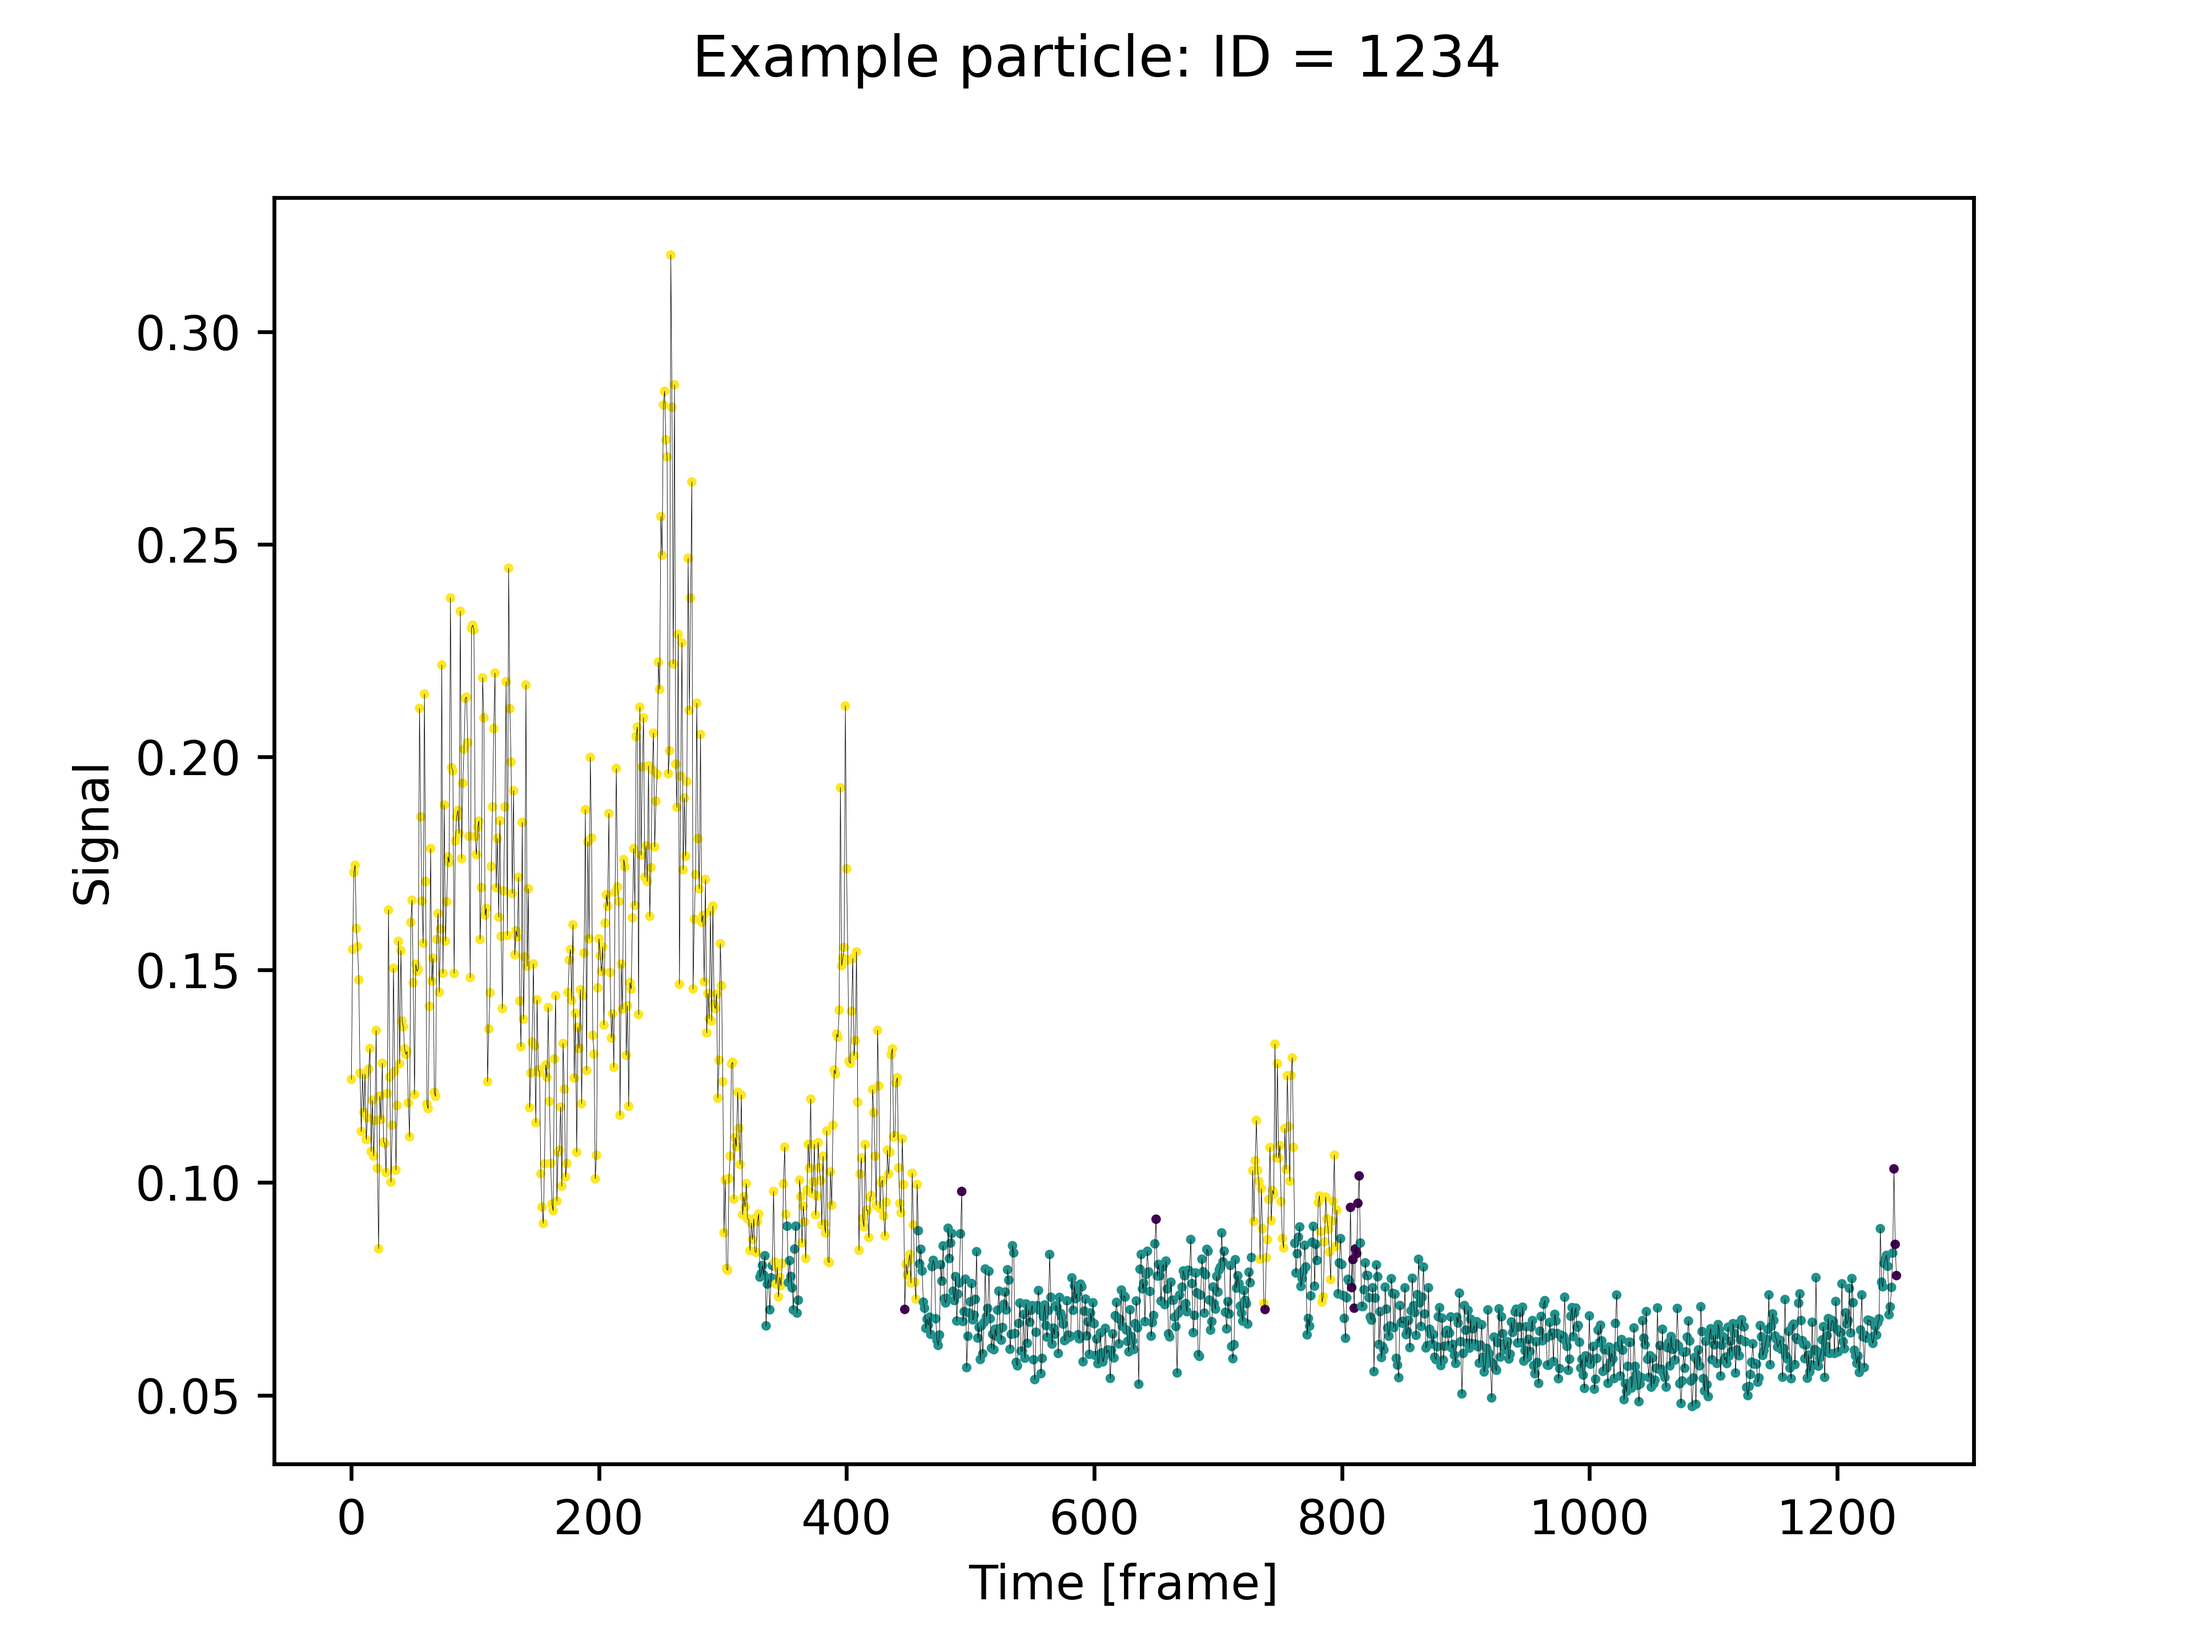
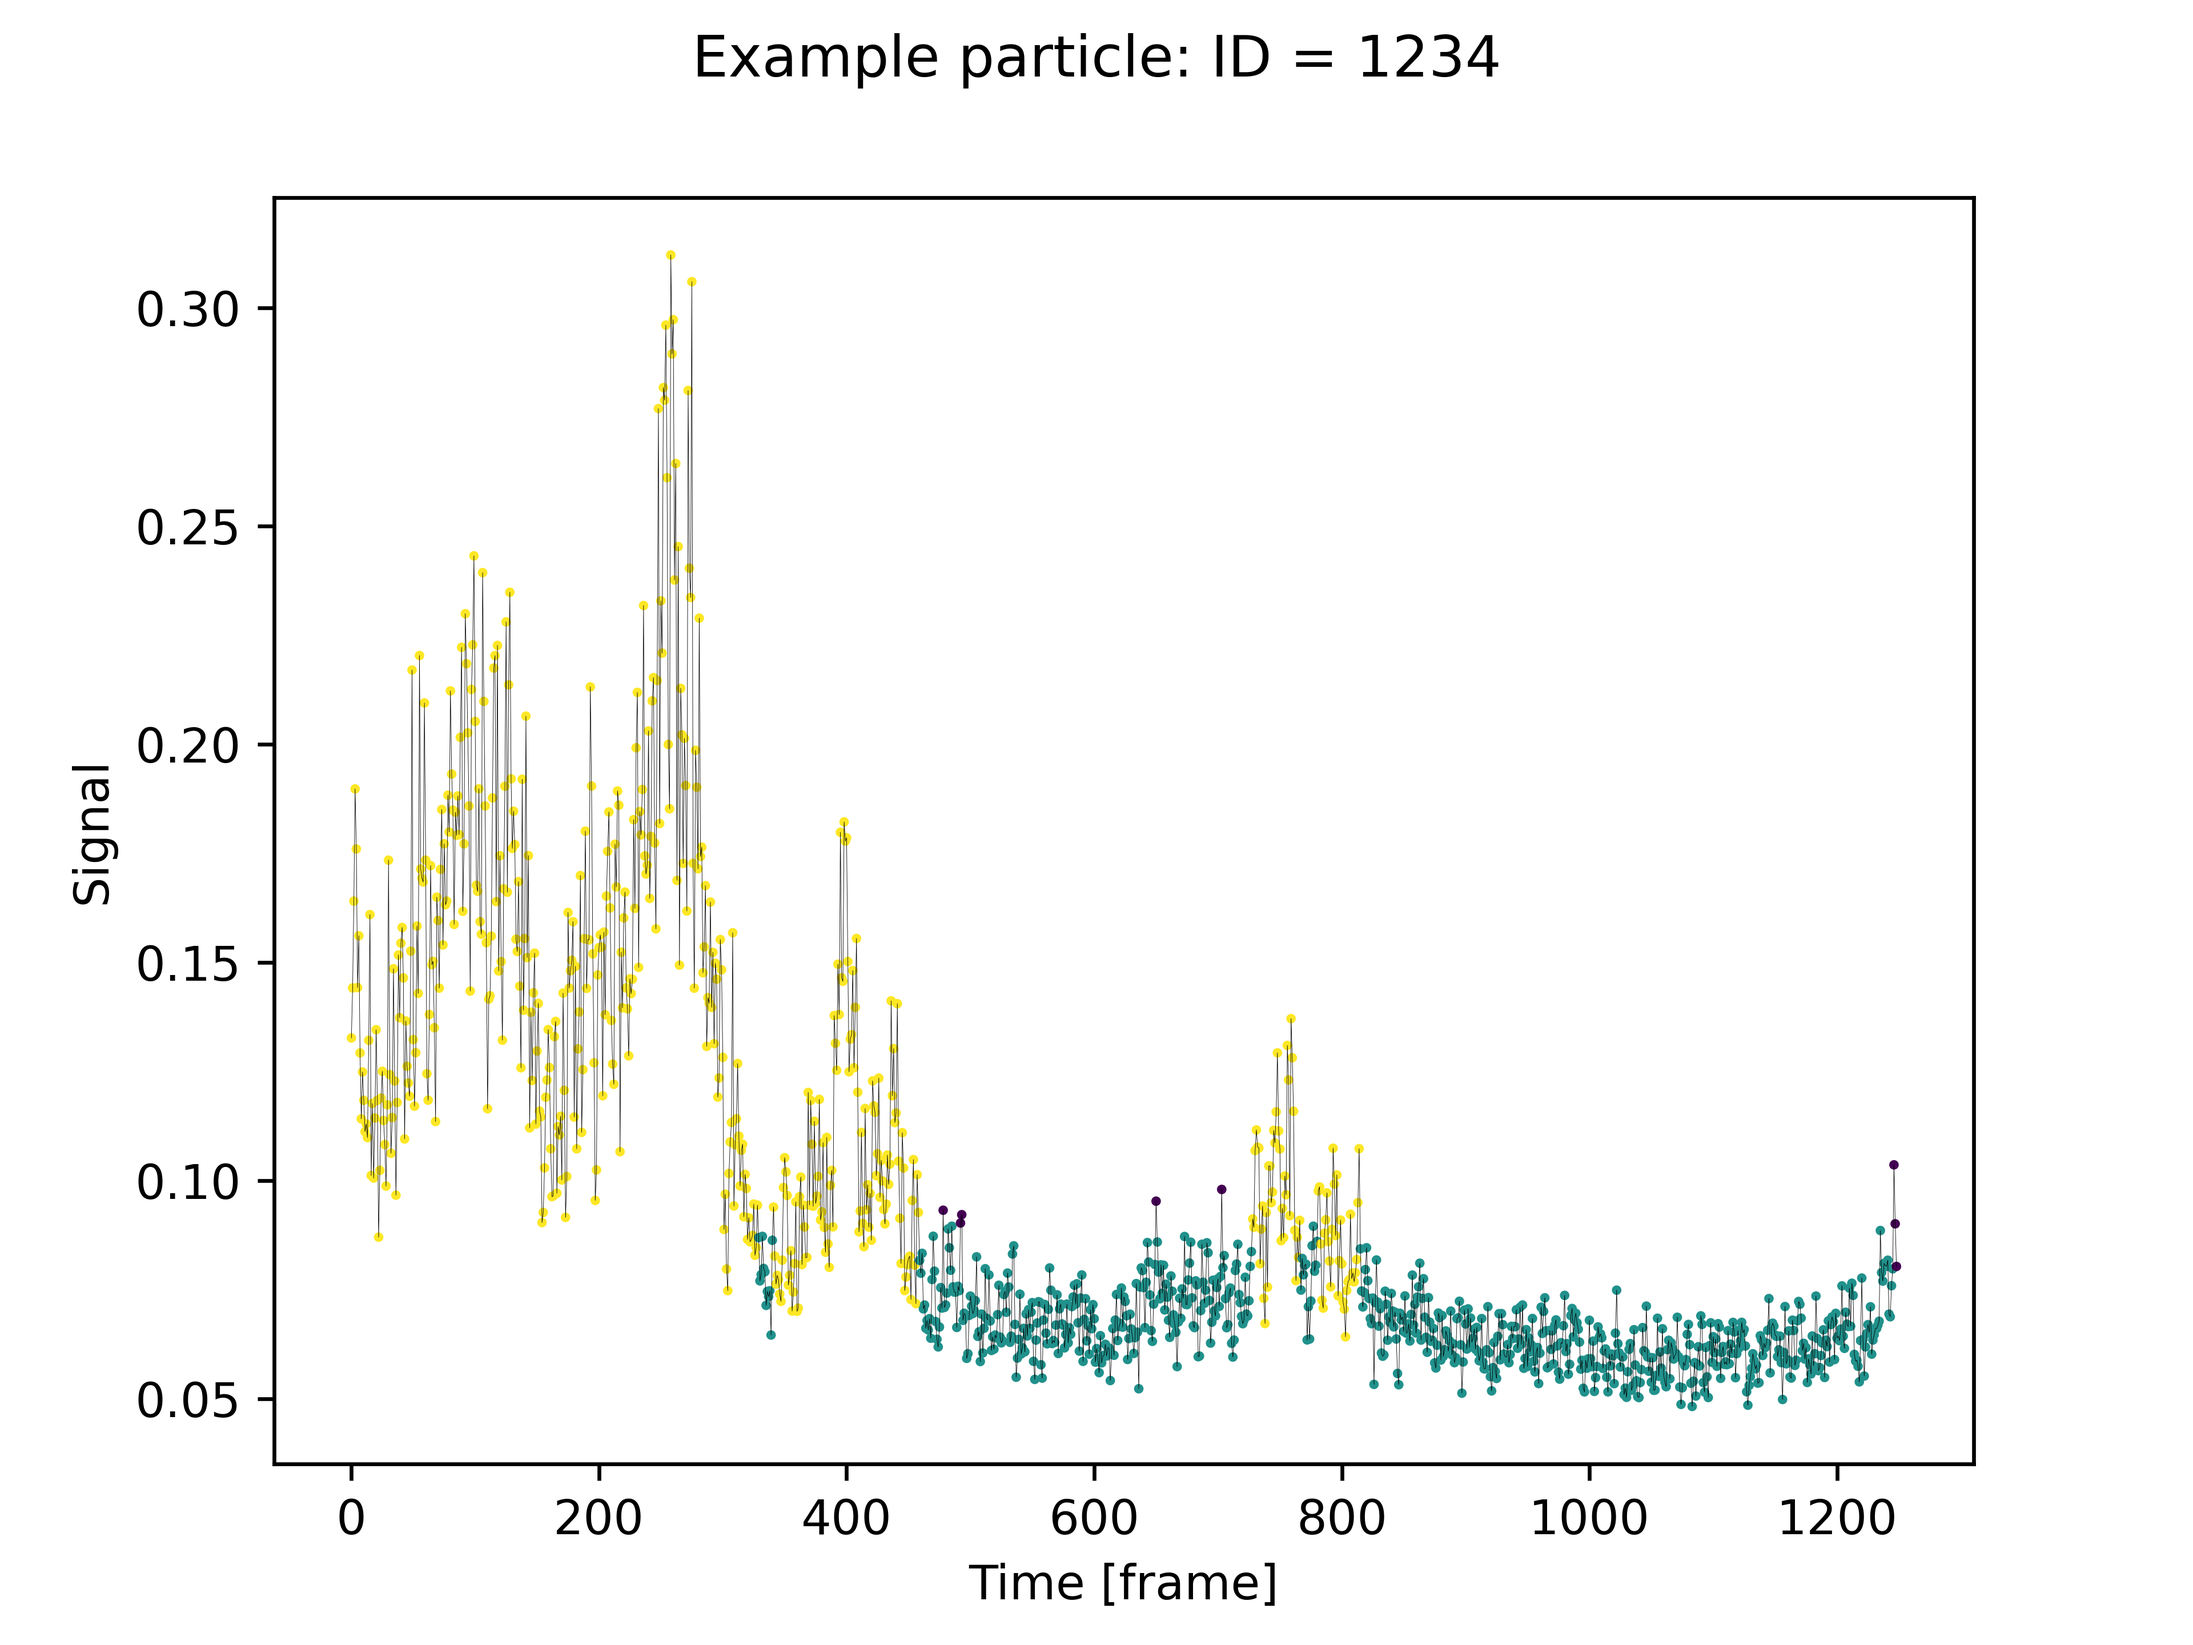
Improved Trj examples.

diff --git a/examples/analysis_workflow.py b/examples/analysis_workflow.py
@@ -2,8 +2,6 @@
 
 from pathlib import Path
 
-import MDAnalysis
-
 from dynsight.trajectory import Insight, OnionInsight, Trj
 
 
@@ -12,11 +10,9 @@ def main() -> None:
     files_path = Path("analysis_workflow")
 
     # Create a Trj object
-    universe = MDAnalysis.Universe(
-        files_path / "oxygens.gro", files_path / "oxygens.xtc"
+    trj = Trj.init_from_xtc(
+        files_path / "oxygens.xtc", files_path / "oxygens.gro"
     )
-    trj = Trj(universe)
-    n_frames = len(trj.universe.trajectory)
 
     # We want, for instance, compute LENS on this trajectory
     # From here, we work with an Insight, containing data computed from a Trj
@@ -28,7 +24,7 @@ def main() -> None:
         lens.dump_to_json(lens_file)
 
     # We can do spatial average on the computed LENS
-    trj_lens = trj.with_slice(slice(1, n_frames, 1))
+    trj_lens = trj.with_slice(slice(0, -1, 1))
     lens_smooth = lens.spatial_average(trj_lens, r_cut=7.5, num_processes=6)
 
     # And we can perform onion-clustering
